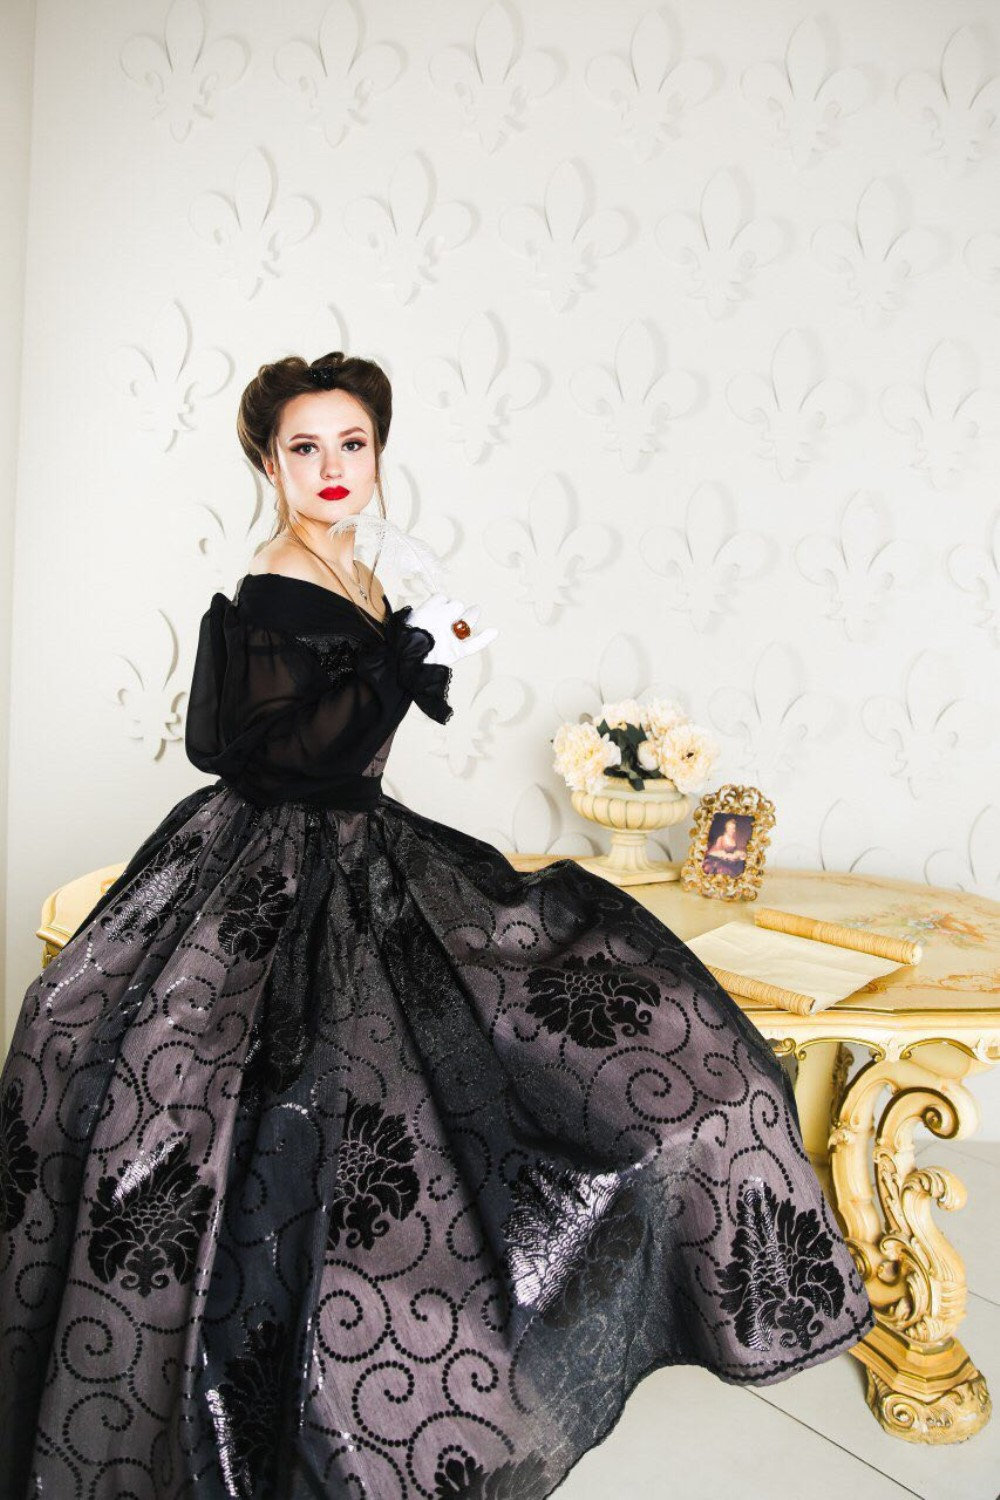
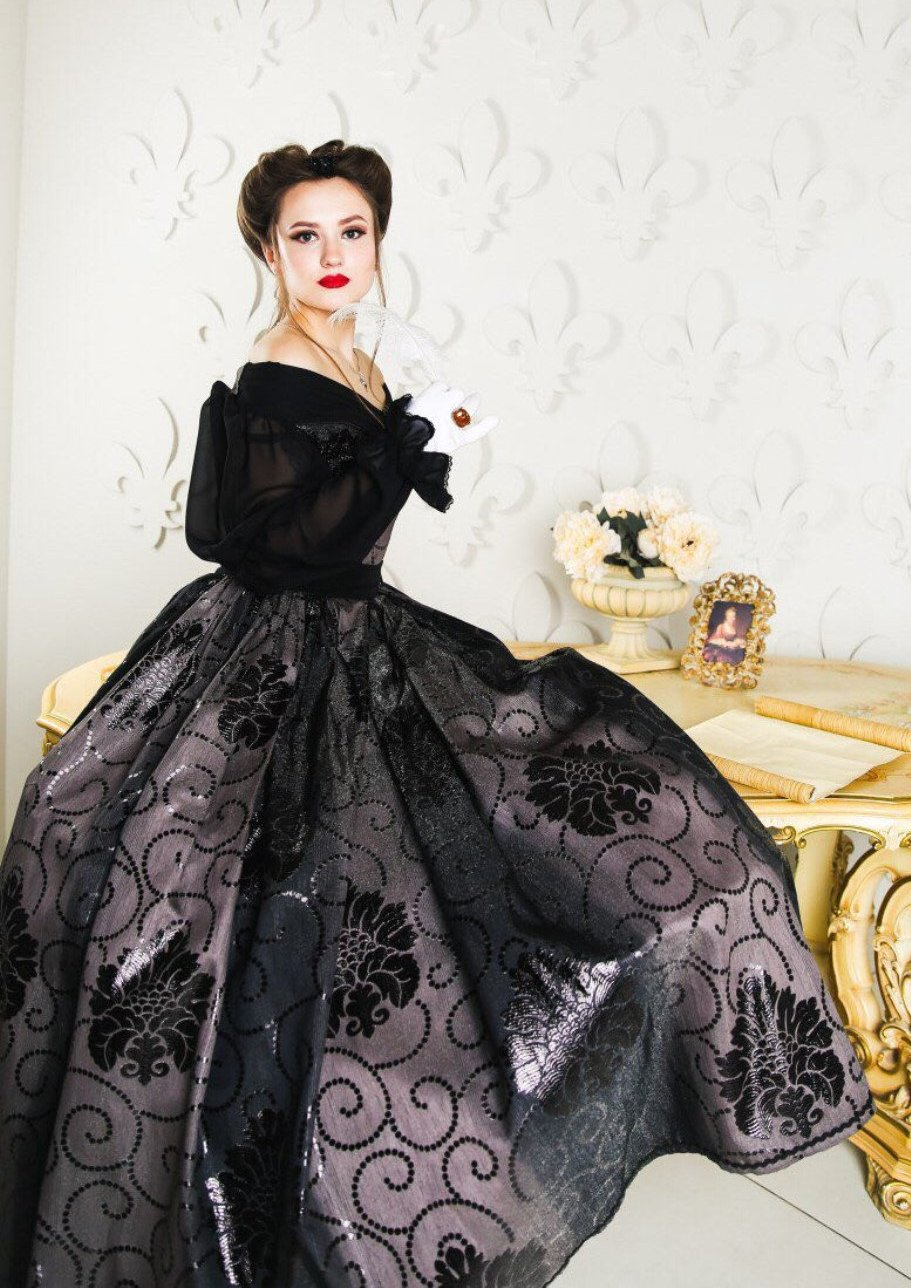
adjust image size

diff --git a/index.html b/index.html
@@ -96,12 +96,12 @@
         <div class="feature-wrapper">
             <div class="feature">
                 <a href="#" class="feature-link">
-                    <img class="feature-image" src="images/hero1.jpeg" alt="historically-inspired gown">
+                    <img class="feature-image" src="images/hero_header.jpeg" alt="historically-inspired gown">
                 </a>
             </div>
             <div class="text-contents">
                 <p>
-                    Authentic Grace ... historically-inspired fashions for the modern woman<br>
+                    Authentic Grace ~ historically-inspired fashions for the modern woman<br>
                  </p>
             </div>
         </div>
@@ -115,20 +115,17 @@
 
             <div class="category-grid">
                 <a href="#" class="category-link">
-                    <img class="category-image" src="images/16th_century_Mary_Stuart_gown_modified.jpg
+                    <img class="category-image" src="images/renaissance_sm.jpg"
                     " alt="shop Renaissance/Baroque"></img>
                     <h3>Renaissance & Baroque</h3>
                 </a>
-                <a href="#" class="category-link">
-                    <img class="category-image" src="images/hero1.jpeg" alt="shop Regency"></img>
-                    <h3>Regency</h3>
                 </a>
                 <a href="#" class="category-link">
-                    <img class="category-image" src="images/1887_grey_bustle_gown.jpg" alt="shop Victorian/Edwardian"></img>
+                    <img class="category-image" src="images/1887_grey_bustle_gown_sm.jpg" alt="shop Victorian/Edwardian"></img>
                     <h3>Victorian & Edwardian</h3>
                 </a>
                 <a href="#" class="category-link">
-                    <img class="category-image" src="images/modern_gothic_prom_dress.jpg" alt="shop Modern"></img>
+                    <img class="category-image" src="images/modern_gothic_prom_dress_sm.jpg" alt="shop Modern"></img>
                     <h3>Vintage & Modern</h3>
                 </a>
             </div>
@@ -199,13 +196,10 @@
             </div>
             <div class="instagram-slider">
                 <!-- <img src="images/left.jpg" alt="Left arrow"> -->
-                <a href="/perfect-skinny-jeans.html">
-                    <img class="slider-pic" src="images/social-jeans.png" alt="Instagram-feature-1">
-                </a>
                 <img class="slider-pic" src="images/c1900_Galleria-del-Costume-di-Palazzo-Pitt.jpeg" alt="Instagram-feature-2">
-                <img class="slider-pic" src="images/social_3.jpg" alt="Instagram-feature-3">
+                <img class="slider-pic" src="images/floral_chiffon_dress.webp" alt="Instagram-feature-3">
                 <img class="slider-pic" src="images/social_4.jpg" alt="Instagram-feature-4">
-                <img class="slider-pic" src="images/social_5.jpg" alt="Instagram-feature-5">
+                <img class="slider-pic" src="images/" alt="Instagram-feature-5">
                 <!-- <img src="images/right.jpg" alt="Right arrow"> -->
             </div>
         </div>
@@ -242,9 +236,8 @@
     
         <!-- Footer section -->
         <div class="sign-up">
-            <h2 class="section-header">be in the know</h2>
-            <p>Sign up to be the first to learn about our latest sales and trends</p>
-            <p>(psssst - you'll also get a welcome gift!)</p>
+            <h2 class="section-header">Sign Up</h2>
+            <p>Be the first to hear about new designs, sales, and blog posts.</p>
             <form>
                 <label for="enter-email">enter email address</label>
                 <input id="enter-email" type="text" value="email address">
@@ -254,7 +247,7 @@
     
         <div class="footer-container">
             <div class="social">
-                <h2 class="section-header">let's be friends</h2>
+                <h2 class="section-header">Follow Us</h2>
                 <div class="social-bottom-row">
                     <a href="#" class="btn-social">
                         <i class="fab fa-facebook icon-style"></i>
@@ -272,7 +265,7 @@
             </div>
         
             <div class="address">
-                <h2 class="section-header">come for a visit</h2>
+                <h2 class="section-header">Visit Us</h2>
                 <p>Authentic Grace
                 </p>
                 <p>1234 Main Street</p>
@@ -281,7 +274,7 @@
             </div>
         
             <div class="contact">
-                <h2 class="section-header">wanna chat?</h2>
+                <h2 class="section-header">Contact Us</h2>
                 <div class="contact-bottom-row">
                     <a href="#" class="btn-social">
                         <i class="fas fa-phone"></i>
